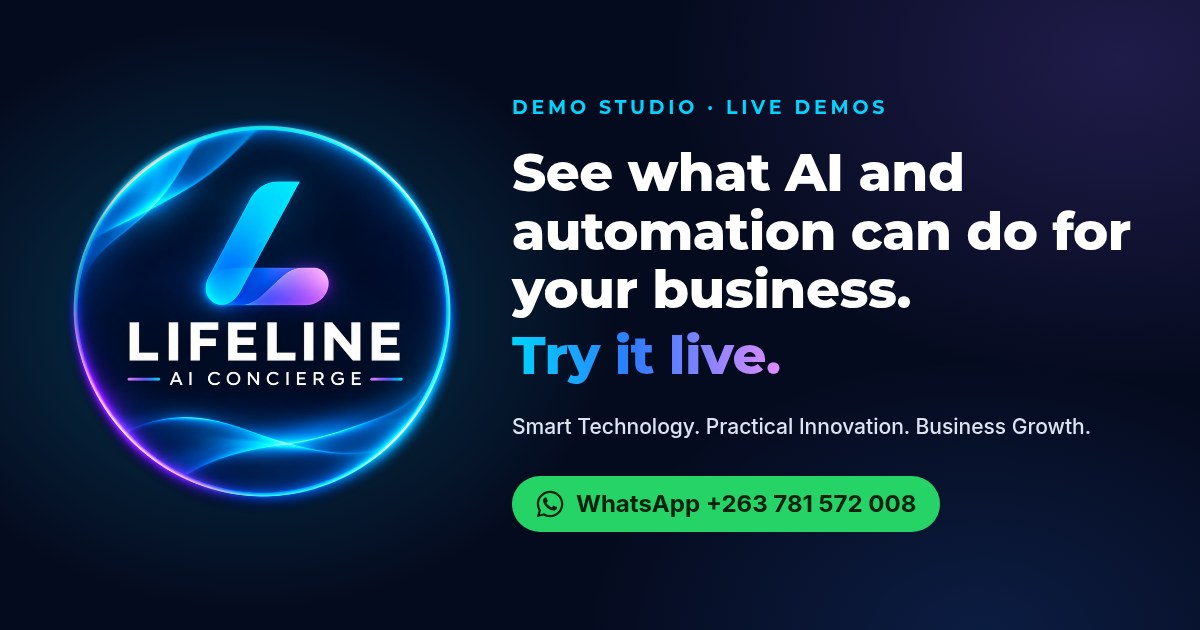
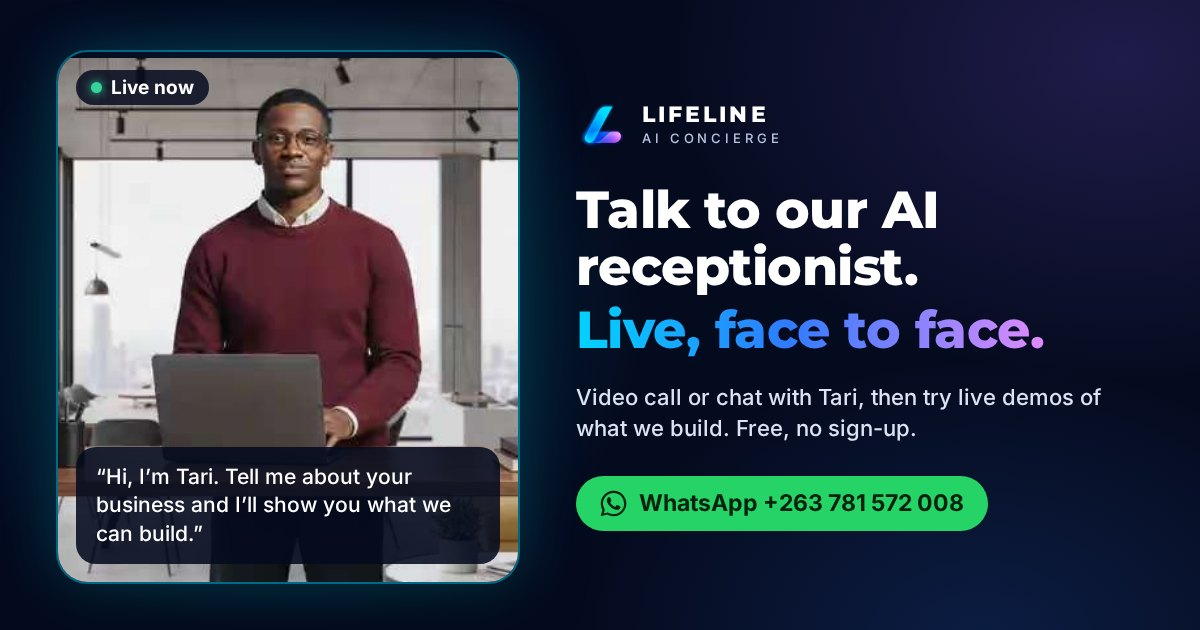
Show Tari in link previews and mention the AI receptionist in shared links

diff --git a/src/components/Logo.tsx b/src/components/Logo.tsx
@@ -1,12 +1,10 @@
 import { cn } from '../lib/cn'
-import badgeSrc from '../assets/logo-badge.jpg'
 import markSrc from '../assets/logo-mark.png'
 
 /*
- * Both images are made from the master logo in public/logo.png (brief, section 3):
- * - logo-badge.jpg: the full badge, resized to 480px (34 KB instead of 474 KB).
- * - logo-mark.png: the "L" icon alone on a navy disc, 128px. Below about 120px wide only
- *   the "L" is used, because the thin "AI CONCIERGE" lettering stops being readable.
+ * logo-mark.png is made from the master logo in public/logo.png (brief, section 3): the "L" icon
+ * alone on a navy disc, 128px. At small sizes only the "L" is used, because the thin
+ * "AI CONCIERGE" lettering stops being readable below about 120px.
  */
 
 /** "L" icon for small sizes (header, footer, "Powered by" bars). Decorative: the name is always in live text nearby. */
@@ -20,29 +18,6 @@ export function LogoMark({ size = 40, className }: { size?: number; className?: 
       decoding="async"
       className={cn('shrink-0 rounded-full', className)}
     />
-  )
-}
-
-/** Full badge for sizes of 120px and up. */
-export function LogoBadge({ size = 200, className }: { size?: number; className?: string }) {
-  return (
-    <div className={cn('relative rounded-full', className)} style={{ width: size, height: size }}>
-      {/* A radial gradient instead of a blur filter: same glow, far cheaper on low-end phones. */}
-      <div
-        aria-hidden="true"
-        className="absolute -inset-[18%] rounded-full bg-[radial-gradient(circle,rgb(0_212_255/0.32)_0%,rgb(139_92_246/0.18)_45%,transparent_70%)]"
-      />
-      {/* Lazy, so phones skip the download while the home hero hides the badge on small screens. */}
-      <img
-        src={badgeSrc}
-        alt=""
-        width={size}
-        height={size}
-        loading="lazy"
-        decoding="async"
-        className="relative rounded-full"
-      />
-    </div>
   )
 }
 

diff --git a/index.html b/index.html
@@ -13,13 +13,14 @@
     <!-- Link previews (WhatsApp, Facebook, LinkedIn, X). Crawlers need absolute URLs. -->
     <meta property="og:type" content="website" />
     <meta property="og:site_name" content="LIFELINE AI CONCIERGE" />
-    <meta property="og:image" content="%SITE_URL%/og-image.jpg" />
+    <!-- Raise ?v= whenever og-image.jpg changes: Facebook and others keep the old image for the same address. -->
+    <meta property="og:image" content="%SITE_URL%/og-image.jpg?v=2" />
     <meta property="og:image:type" content="image/jpeg" />
     <meta property="og:image:width" content="1200" />
     <meta property="og:image:height" content="630" />
     <meta
       property="og:image:alt"
-      content="LIFELINE AI CONCIERGE logo with the words: See what AI and automation can do for your business. Try it live."
+      content="Tari, the LIFELINE AI CONCIERGE AI receptionist, live on a video call, with the words: Talk to our AI receptionist. Live, face to face."
     />
     <meta name="twitter:card" content="summary_large_image" />
     <link rel="icon" type="image/png" href="/src/assets/logo-mark.png" />

diff --git a/src/config/site.ts b/src/config/site.ts
@@ -5,7 +5,10 @@ export const SITE = {
   brand: 'LIFELINE AI CONCIERGE',
   /** The home page's search-result description. Each demo page uses its card summary instead. */
   description:
-    'Try live demos of the AI chatbots, workflow automation, WhatsApp ordering and business systems LIFELINE AI CONCIERGE builds. Smart Technology. Practical Innovation. Business Growth.',
+    'Talk to Tari, our AI receptionist, by chat or video call, and try live demos of the AI chatbots, workflow automation, WhatsApp ordering and business systems LIFELINE AI CONCIERGE builds.',
+  /** The text under the home page's link preview on WhatsApp, Facebook, LinkedIn and X. Goes with public/og-image.jpg. */
+  previewDescription:
+    'Talk to Tari, our AI receptionist, by chat or face-to-face video call. Then try live demos of what AI and automation can do for your business. Free, no sign-up.',
   tagline: 'Smart Technology. Practical Innovation. Business Growth.',
   headline: 'See what AI and automation can do for your business.',
   headlineCta: 'Try it live.',

diff --git a/src/lib/share.ts b/src/lib/share.ts
@@ -18,7 +18,7 @@ export function demoShareUrl(demo: SharedDemo): string {
 
 /** Text that goes with the link. The link goes last, so WhatsApp shows its preview card. */
 export function demoShareText(demo: SharedDemo): string {
-  return `Have a look at this live demo from ${SITE.brand}: ${demo.title}. You can try it on your phone, no sign-up needed.`
+  return `Have a look at this live demo from ${SITE.brand}: ${demo.title}. You can try it on your phone, no sign-up needed, and talk to their AI receptionist by chat or video call.`
 }
 
 /** Opens WhatsApp so the visitor can pick any chat or group. No phone number, unlike the enquiry links. */

diff --git a/vite.config.ts b/vite.config.ts
@@ -9,8 +9,7 @@ interface SiteInfo {
   url: string
   brand: string
   description: string
-  headline: string
-  headlineCta: string
+  previewDescription: string
 }
 
 interface DemoInfo {
@@ -50,7 +49,7 @@ function homeMeta(site: SiteInfo): PageMeta {
   return {
     title: `${site.brand} | Demo Studio`,
     description: site.description,
-    previewDescription: `${site.headline} ${site.headlineCta}`,
+    previewDescription: site.previewDescription,
     url: `${site.url}/`,
   }
 }

diff --git a/README.md b/README.md
@@ -73,12 +73,13 @@ Another static host works if it serves `demos/<slug>.html` at `/demos/<slug>` an
 
 | File | Size | Used for |
 |---|---|---|
-| `src/assets/logo-badge.jpg` | 480 px, 34 KB | Full badge on the home page |
 | `src/assets/logo-mark.png` | 128 px, 15 KB | The "L" icon alone on a navy disc: header, footer, "Powered by" bars, browser tab icon |
-| `public/og-image.jpg` | 1200 × 630, 90 KB | Link preview on WhatsApp, Facebook, LinkedIn and X |
+| `public/og-image.jpg` | 1200 × 630, 91 KB | Link preview on WhatsApp, Facebook, LinkedIn and X: Tari's photo, the "L" icon and the name |
 
 At small sizes the site uses only the "L" icon, with the name in live text, because the thin "AI CONCIERGE"
-lettering is unreadable below about 120 px. If the logo changes, regenerate all three copies.
+lettering is unreadable below about 120 px. If the logo changes, regenerate both copies. When `og-image.jpg`
+changes, raise the `?v=` number on its `og:image` tag in `index.html`, so apps that cached the old image fetch the
+new one.
 
 If the site moves to another address, change `url` in `src/config/site.ts`. Link previews, canonical links and the
 sitemap all use it.
